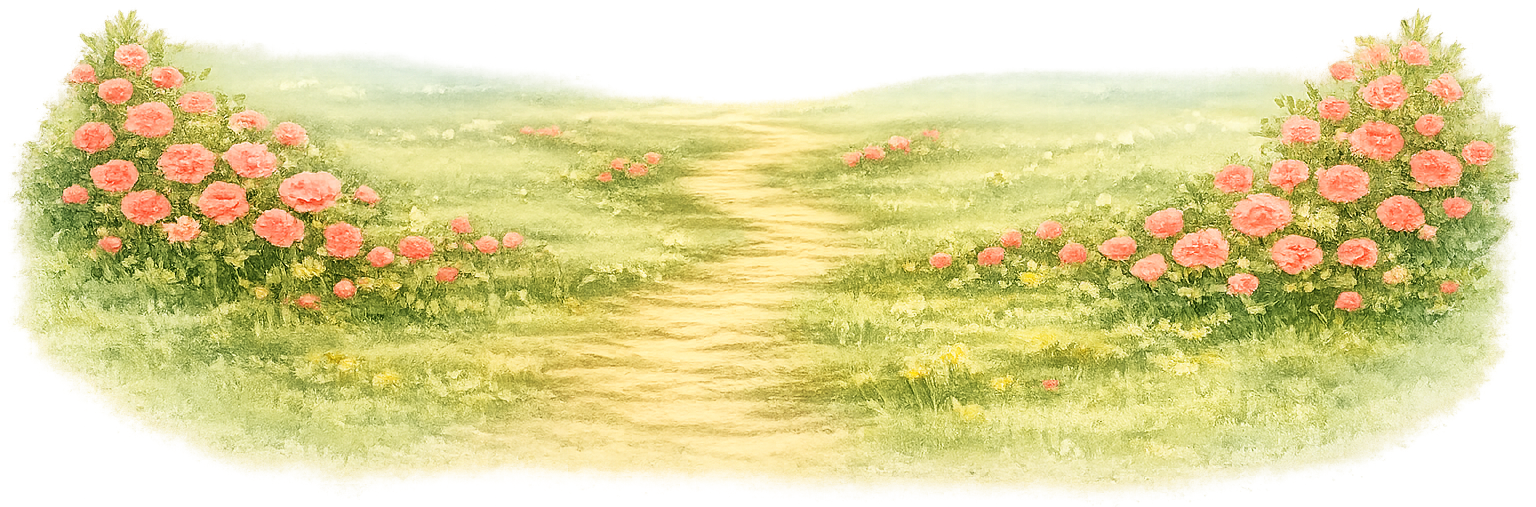
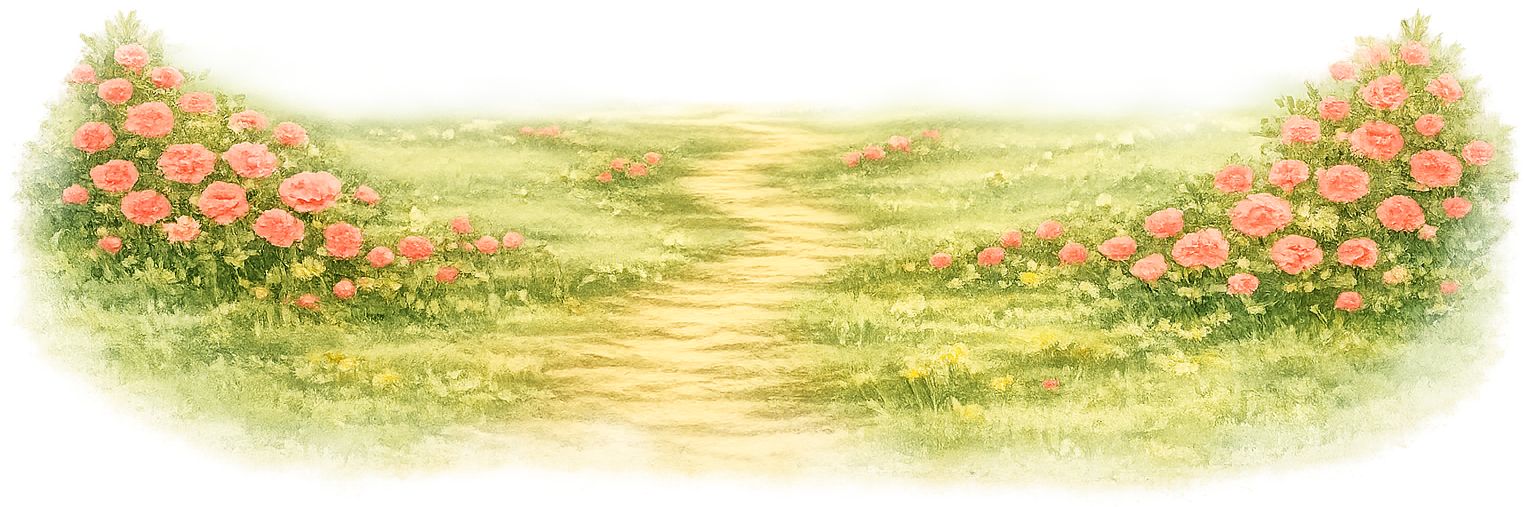
Feat: Adjusted fg5.png position
- Shifted 'fg5.png' (grass element) upwards multiple times for fine-tuned vertical placement.

diff --git a/src/components/HeroStage.svelte b/src/components/HeroStage.svelte
@@ -188,7 +188,7 @@
       
       <!-- Layer 1.9: Grass -->
       <div class="grass hero-layer" data-parallax data-depth="0.5"
-           style="left: 960px; top: 910px; width: 8000px; height: 360px;
+           style="left: 960px; top: 870px; width: 8000px; height: 360px;
                   background-image: url('{theme.grass}');
                   background-repeat: no-repeat;
                   background-position: bottom center;
